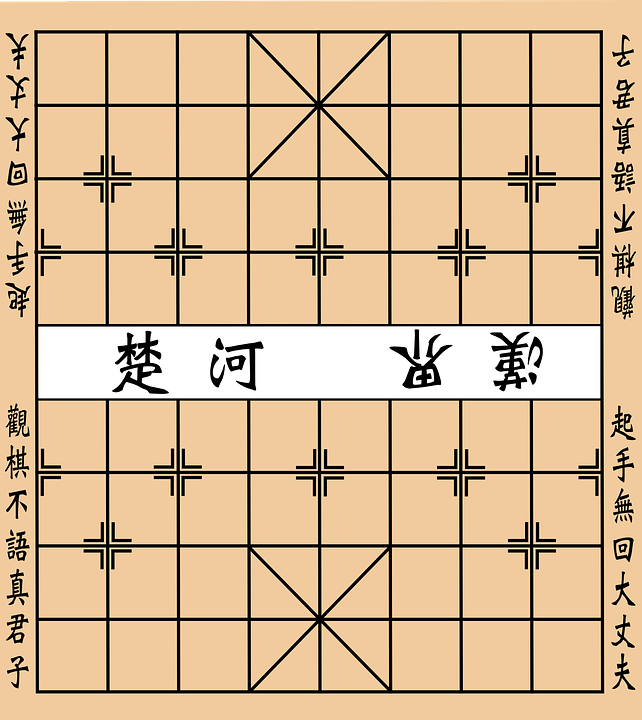
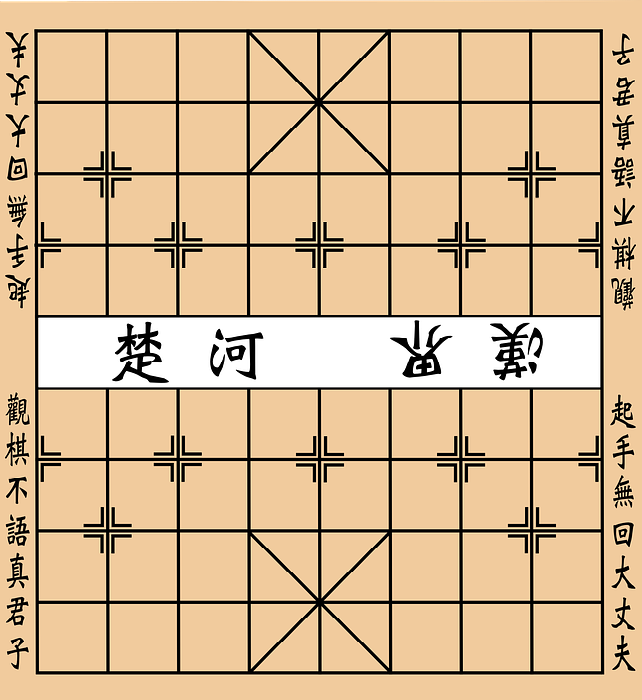
Background & Chess board

diff --git a/Assets/Scripts/Gameplay/BoardManager.cs b/Assets/Scripts/Gameplay/BoardManager.cs
@@ -6,6 +6,7 @@ public class BoardManager : MonoBehaviour
     //Board
     [Header("Board Properties")]
     [SerializeField] private float tileSize = 1.0f;
+    [SerializeField] private GameObject boardImage;
     private const int BOARD_X = 9;
     private const int BOARD_Y = 10;
     private const int RED_ID = 0;
@@ -34,6 +35,7 @@ public class BoardManager : MonoBehaviour
     private void Awake() {
         board = new GameObject[BOARD_X, BOARD_Y];
         tileSize = CalculateTileSize(Screen.width, Screen.height);
+        boardImage.transform.localScale = new Vector2(tileSize,tileSize);
         isRedTurn = true;
 
         InitializeBoard(tileSize, BOARD_X, BOARD_Y);
@@ -130,8 +132,8 @@ public class BoardManager : MonoBehaviour
             );
 
         screenCenterWorldPosition.z = transform.position.z;
-
         transform.position = screenCenterWorldPosition;
+        //boardImage.transform.position = screenCenterWorldPosition;
 
         Debug.Log("Board moved to: " + transform.position);
     }
@@ -273,6 +275,7 @@ public class BoardManager : MonoBehaviour
                 mesh.vertices = vertices;
                 mesh.triangles = tris;
 
+                tile.GetComponent<MeshRenderer>().enabled = false;
                 tile.layer = LayerMask.NameToLayer("Tile");
                 tile.AddComponent<BoxCollider2D>(); 
             }
@@ -456,26 +459,7 @@ public class BoardManager : MonoBehaviour
             return true;
         }
         
-        else{
-            HidePossibleMoves();
-            currentChooseCP.UnselectPiece();
-            currentChooseCP = null;
-
-            if(ocp != null){
-                if(cp.team == ocp.team && cp != ocp){
-                    currentChooseCP = ocp;
-                    currentChooseCP.SelectPiece();
-                    availableMoves = currentChooseCP.GetAvailableMoves(ref chessPieces, BOARD_X, BOARD_Y);
-                    //Debug.LogWarning(availableMoves.Count);
-                    //CheckForCheckmate();
-                    //Debug.LogWarning(availableMoves.Count);
-                    //ShowPossibleMoves();
-                    return false;
-                }
-            }
-
-            return false;
-        }
+        return false;
     }
 
     public void BackToPreviousMove(){
